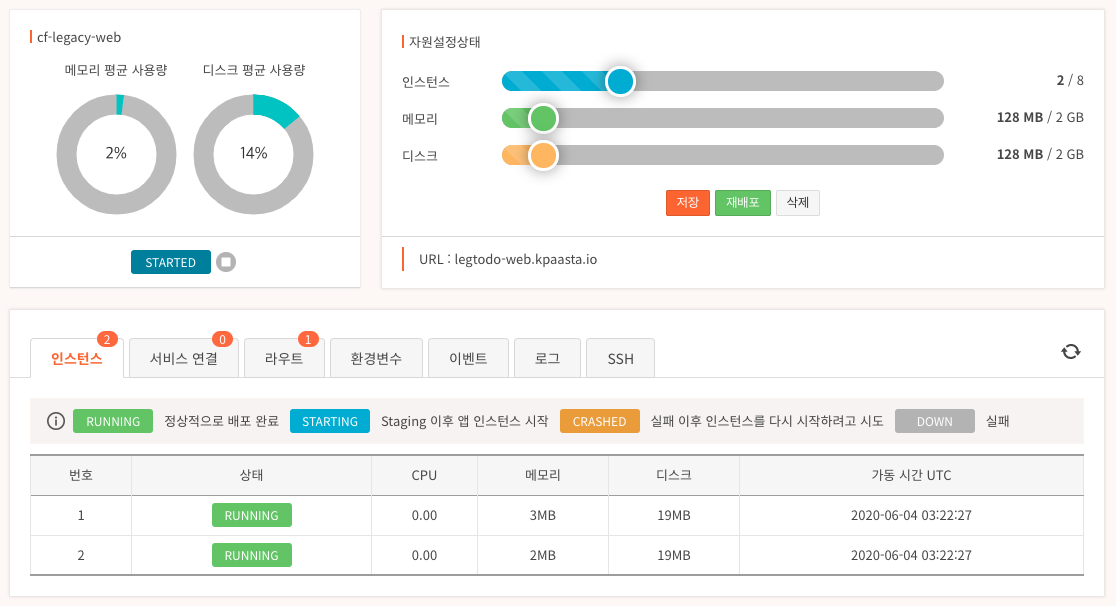
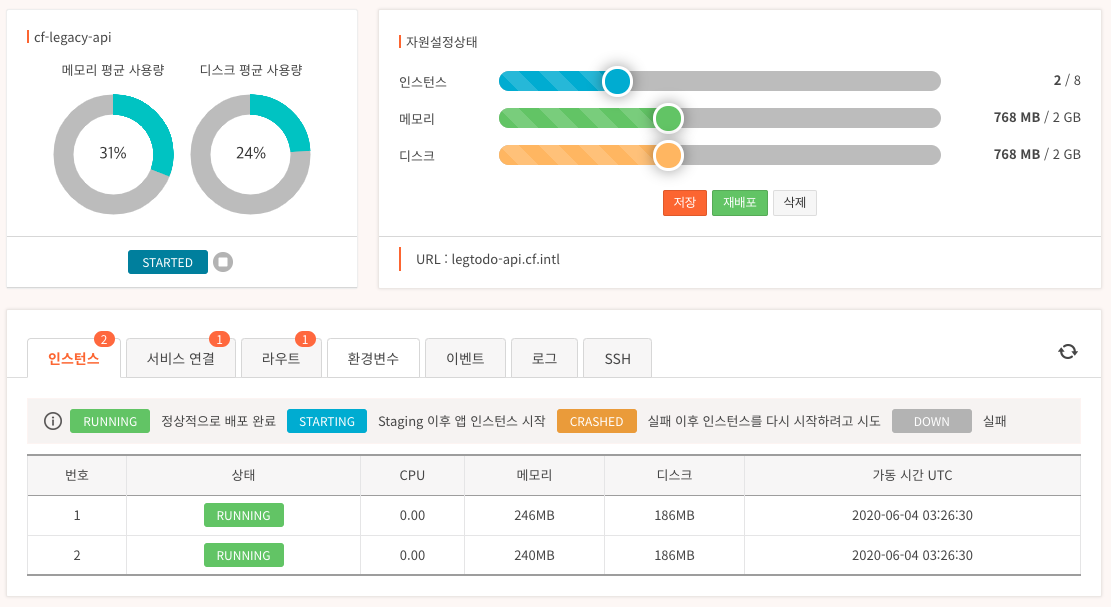
GitBook: [master] 57 pages and 2 assets modified

diff --git a/dev/legacy/undefined.md b/dev/legacy/undefined.md
@@ -10,13 +10,25 @@ OK
 
 앱 상세 화면에서 좀 더 쉽게 조정할 수 있다. \(자원설정상태 &gt; 인스턴스 조정 후 저장\) 
 
-![](../../.gitbook/assets/image%20%28180%29.png)
+![](../../.gitbook/assets/image%20%28181%29.png)
 
 ## WAS 서버 이중화
 
+```text
+$ cf scale cf-legacy-api -i 2
+Scaling app cf-legacy-api in org KOSCOM-DefaultOrg / space default as jmpark93@koscom.co.kr...
+OK
+```
 
+![](../../.gitbook/assets/image%20%28180%29.png)
 
+### 기타 
+
+WEB 이중화에 따른 Endpoint 는 처음 정의했던 URL 로 동일하며 Round Robin 형태로 동작하게 된다. WAS 이중화도 마찬가지 방식으로 동작하게 된다. 
+
+Managed DBMS 서비스 \(MySQL\) 은 관리형서비스로 자체적으로 3중화 구성되어 있으므로, WEB &gt; WAS &gt; DB 모두 이중화 되어 있는 상태로 구성되게 된다. 
+
+{% hint style="info" %}
 좀 더 우아한 방법 \( Rolling Update, Blue/Green Deploy \) 등은 MSA 웹서비스 제작 과정을 통해서 설몀하도록 한다. 
-
-
+{% endhint %}
 
